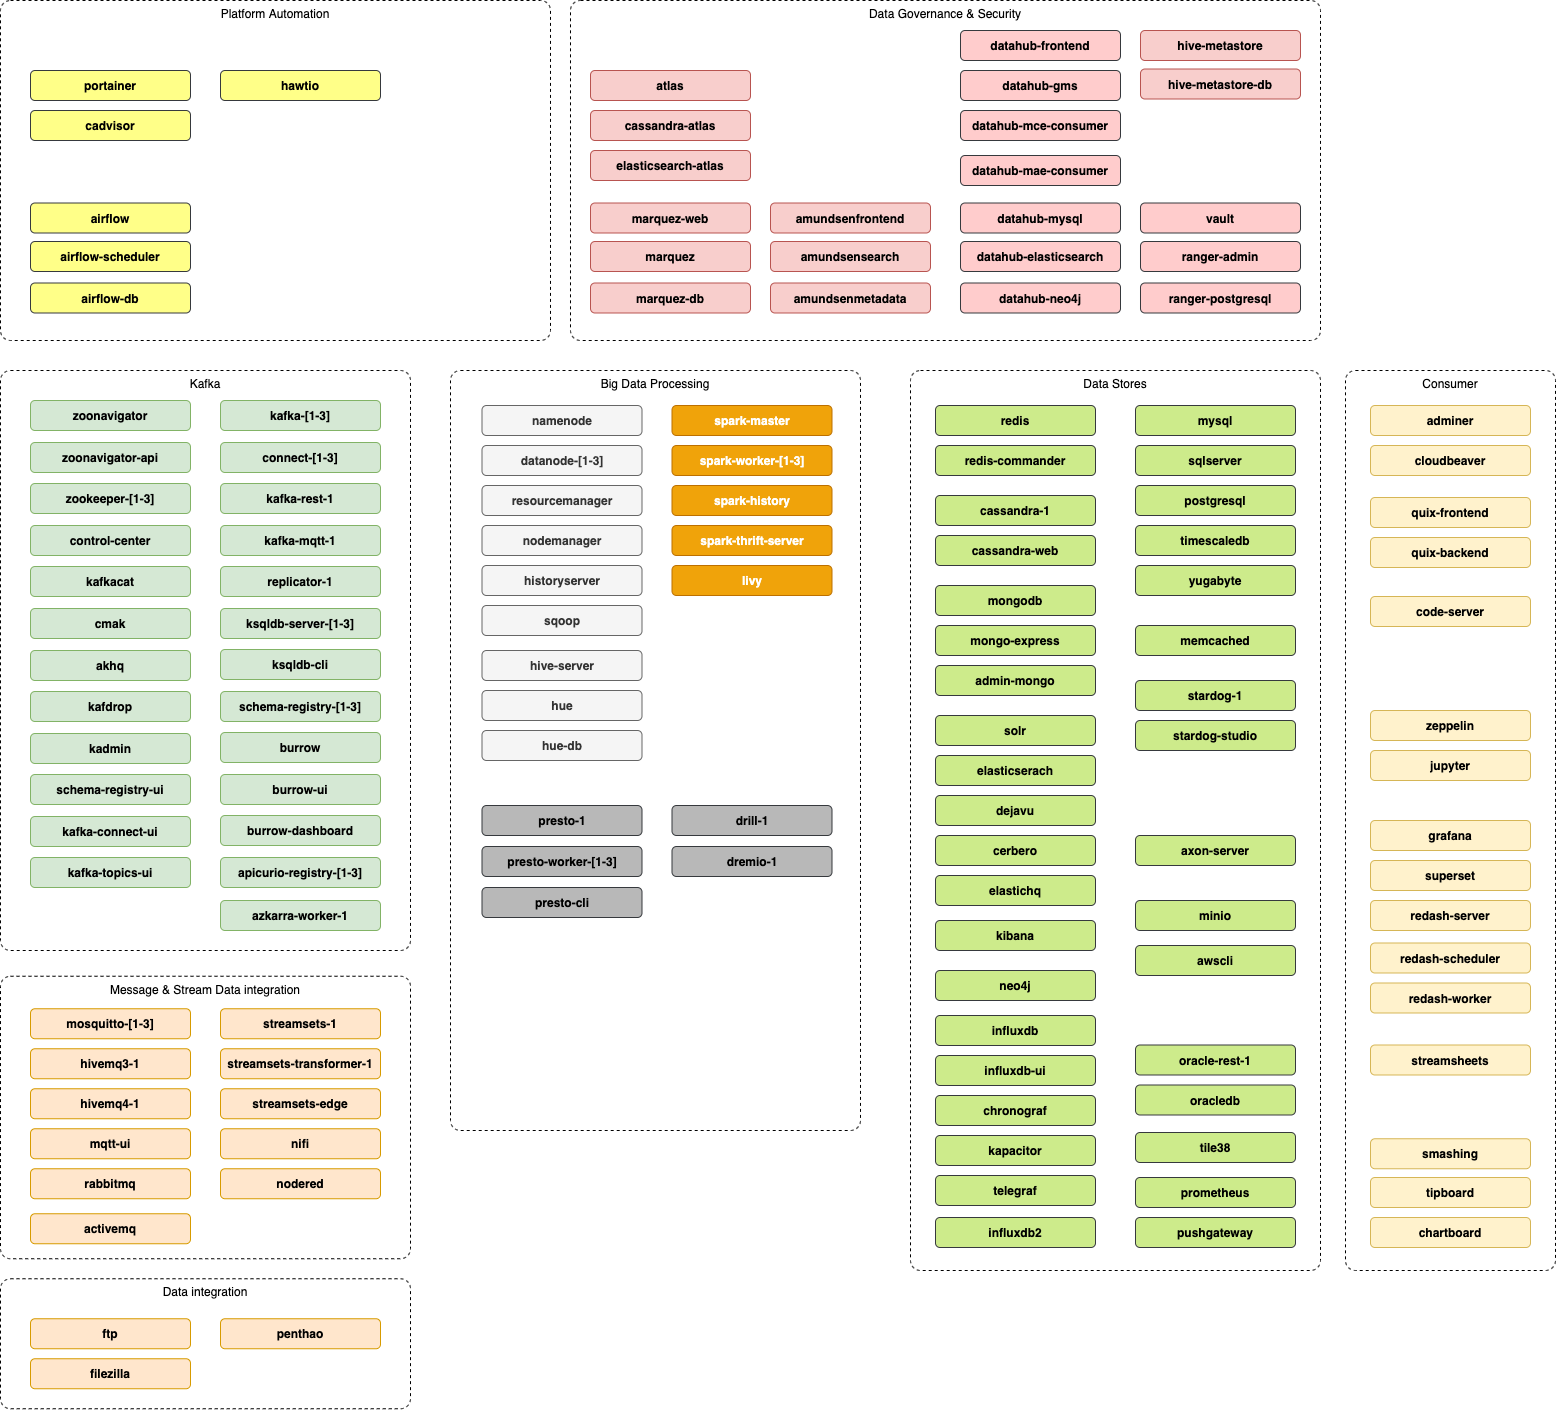
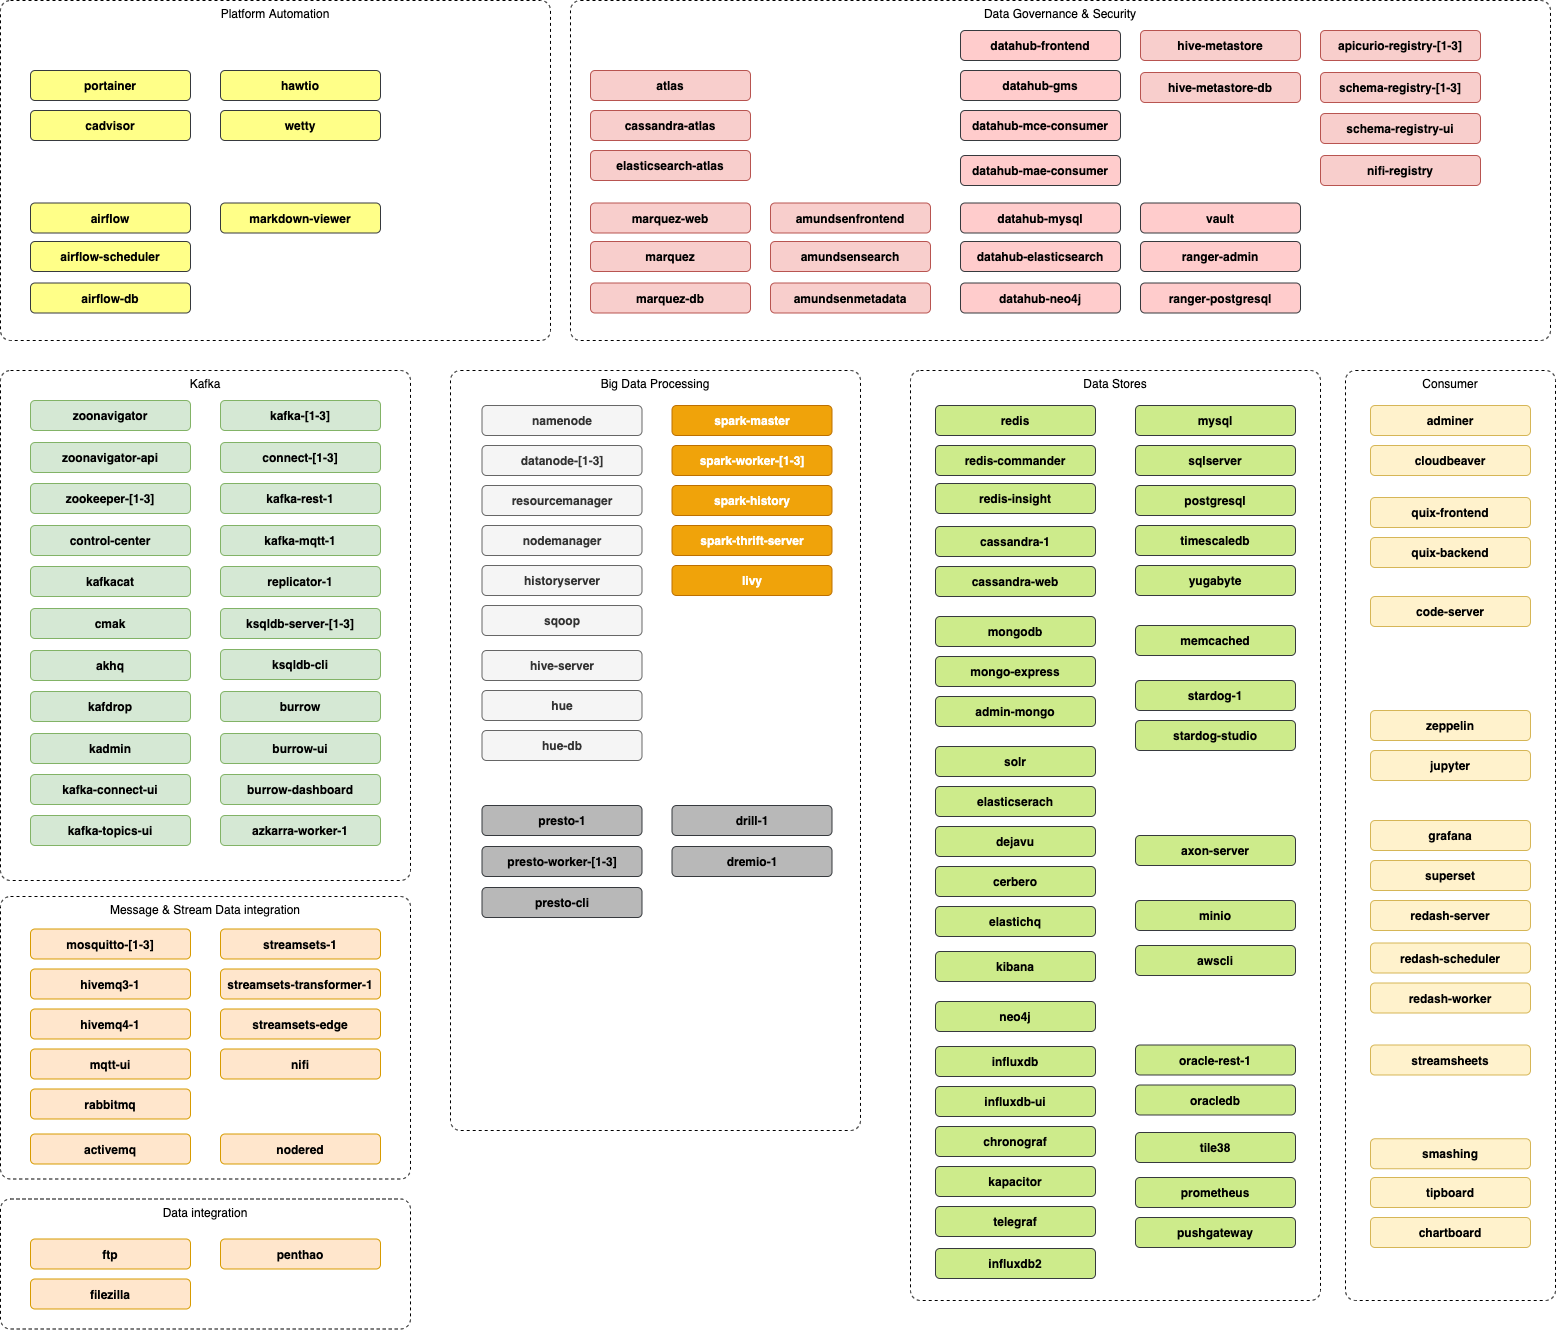
update to 1.9.0

diff --git a/documentation/changes.md b/documentation/changes.md
@@ -1,5 +1,77 @@
 # `modern-data-platform` - What's new?
 
+See [Upgrade to a new platform stack version](https://github.com/TrivadisPF/platys/blob/master/documentation/upgrade-platform-stack.md) for how to upgrade to newer version.
+
+## What's new in 1.9.0
+
+The Modern Data Platform version 1.9.0 contains the following new services and enhancements:
+
+### New Services
+
+* Redis Insight
+* WebTTY
+* Markdown Viewer (enabled by default, rendering documentation about the platform)
+* NiFi Registry
+
+### Version upgrades  
+
+* Change `Redis` to bitnami image
+* Update `DataHub` to `0.6.1`
+* Update `Portainer` to `2.0.0`
+* Update `CAdvisor` to `v0.36.0`
+* Update `Marquez` to `0.11.3` and Marquez UI to `0.7.0`
+* Update `Apache NiFi` to `1.12.1`
+* Update `StreamSets Data Collector` to `3.19.0`
+* Update `ksqlDB` to `0.13.0`
+* Update `Hue` to `4.8.0`
+* Update `Amundsen-Frontend` to `3.0.0`
+* Update `Amundsen-Metadata` to `3.0.0`
+* Update `Amundsen-Search` to `2.4.1`
+* Update `Presto` to `344-e`
+* Update `Dremio` to `4.9`
+* Update `MongoDB` to `4.4.2`
+* Update `MongoDB` to `4.2.0`
+* Update `InfluxDB 2.0` to `v2.0.2`
+* Update `Druid` to `0.20.0`
+* Update `Memcached` to `1.6.9`
+* Update `Kudu` to `1.13`
+* Update `Prometheus` to `v2.23.0` and `Prometheus-Pushgateway` to `v1.3.0`
+* Update `Tile38` to `1.22.5`
+* Update `Grafana` to `7.3.4`
+* Update `Stardog` to `7.4.4-java11-preview` and `Stardog Studio` to `1.29.1`
+* Update `Yugabyte` to `2.5.0.0-b2`
+* Update `Axon` to `4.4.5`
+* Update `Presto` to `346-e`
+* Update `Dremio` to `11.0`
+* Update `HiveMQ3` to `3.4.7` and `HiveMQ4` to `4.4.3`
+* Update `Vault` to `1.6.0`
+* Update `Airflow` to `1.10.13`
+* Update `Atlas` to `2.1.0`
+* Update `Ranger` to `2.1.0`
+* Update `Mosquitto` to `2.0`
+* Update `Streamsheets` to `2.1-milestone`
+
+### Enhancements 
+
+* support Master/Slave Redis setup
+* automatically set the name of the docker network to the value of the `platform-name` property from the `config.yml`
+* Allow adding `ConfigProvider` classes to the `kafka-connect` service supporting the use of variables in connector configurations that are dynamically resolved when the connector is (re)started.
+* Rendering markdown files with information on the generated platform
+* Add configuration property to `ksqldb-server` to enable new suppress functionality and to use a query file
+* support external `Kafka` cluster (was in preview in 1.8) and `S3` object storage with the new `external` section
+* support setting access key and secret key to be used for `minio` in the `config.yml` using the same default values as before
+* support volume mapping for data and logs folder of `nifi` service
+
+### Breaking Changes
+
+* Update docker-compose version to `3.5` (requiring Docker Engine version 17.12.0 and higher)
+* Volume mapped `data` folder in Streamsets (`STREAMSETS_volume_map_data=true`) is now mapped to `container-volume/streamsets-1/data` and no longer to `container-volume/streamsets-1`
+* No longer use the `KAFKA_bootstrap_servers` to configure external kafka, but `external['KAFKA_enable']` property in `config.yml`
+
+### Bug Fixes 
+
+* Fix for the error when using the `STREAMSETS_volume_map_data` feature
+
 ## What's new in 1.8.0
 
 The Modern Data Platform version 1.8.0 contains the following new services and enhancements:
